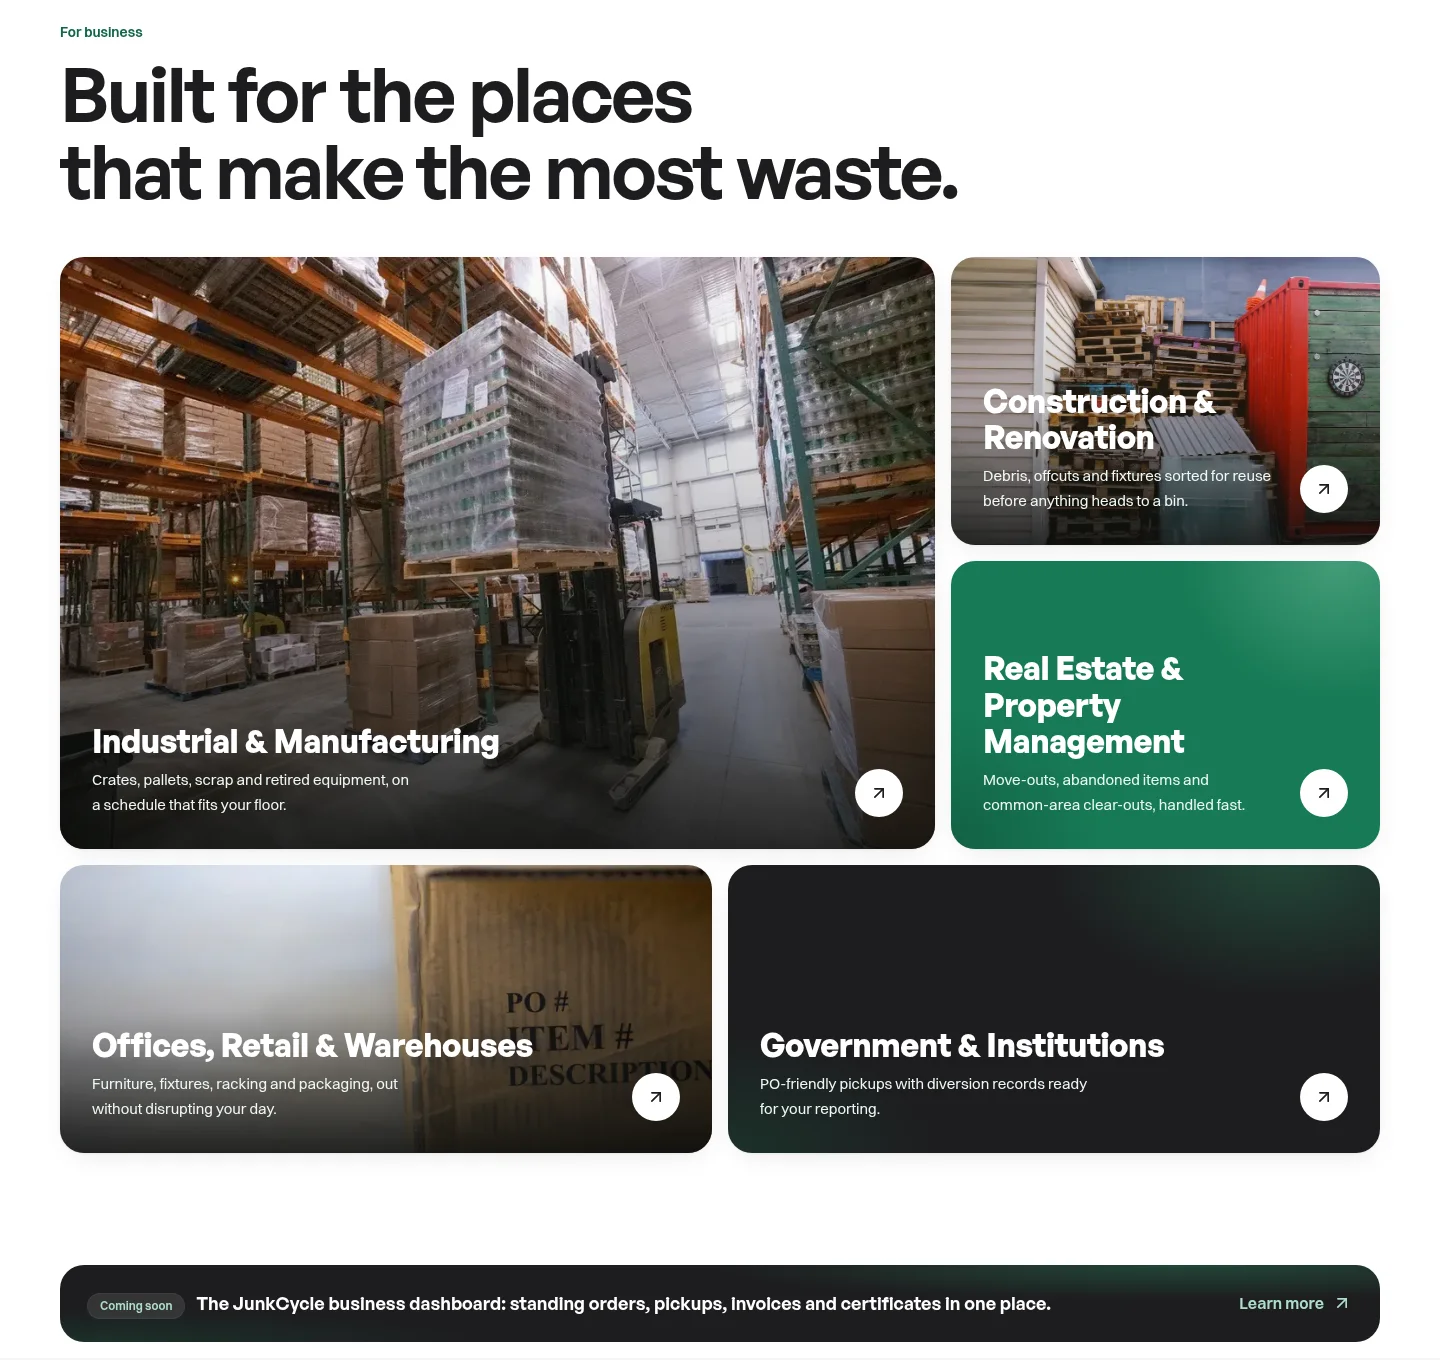
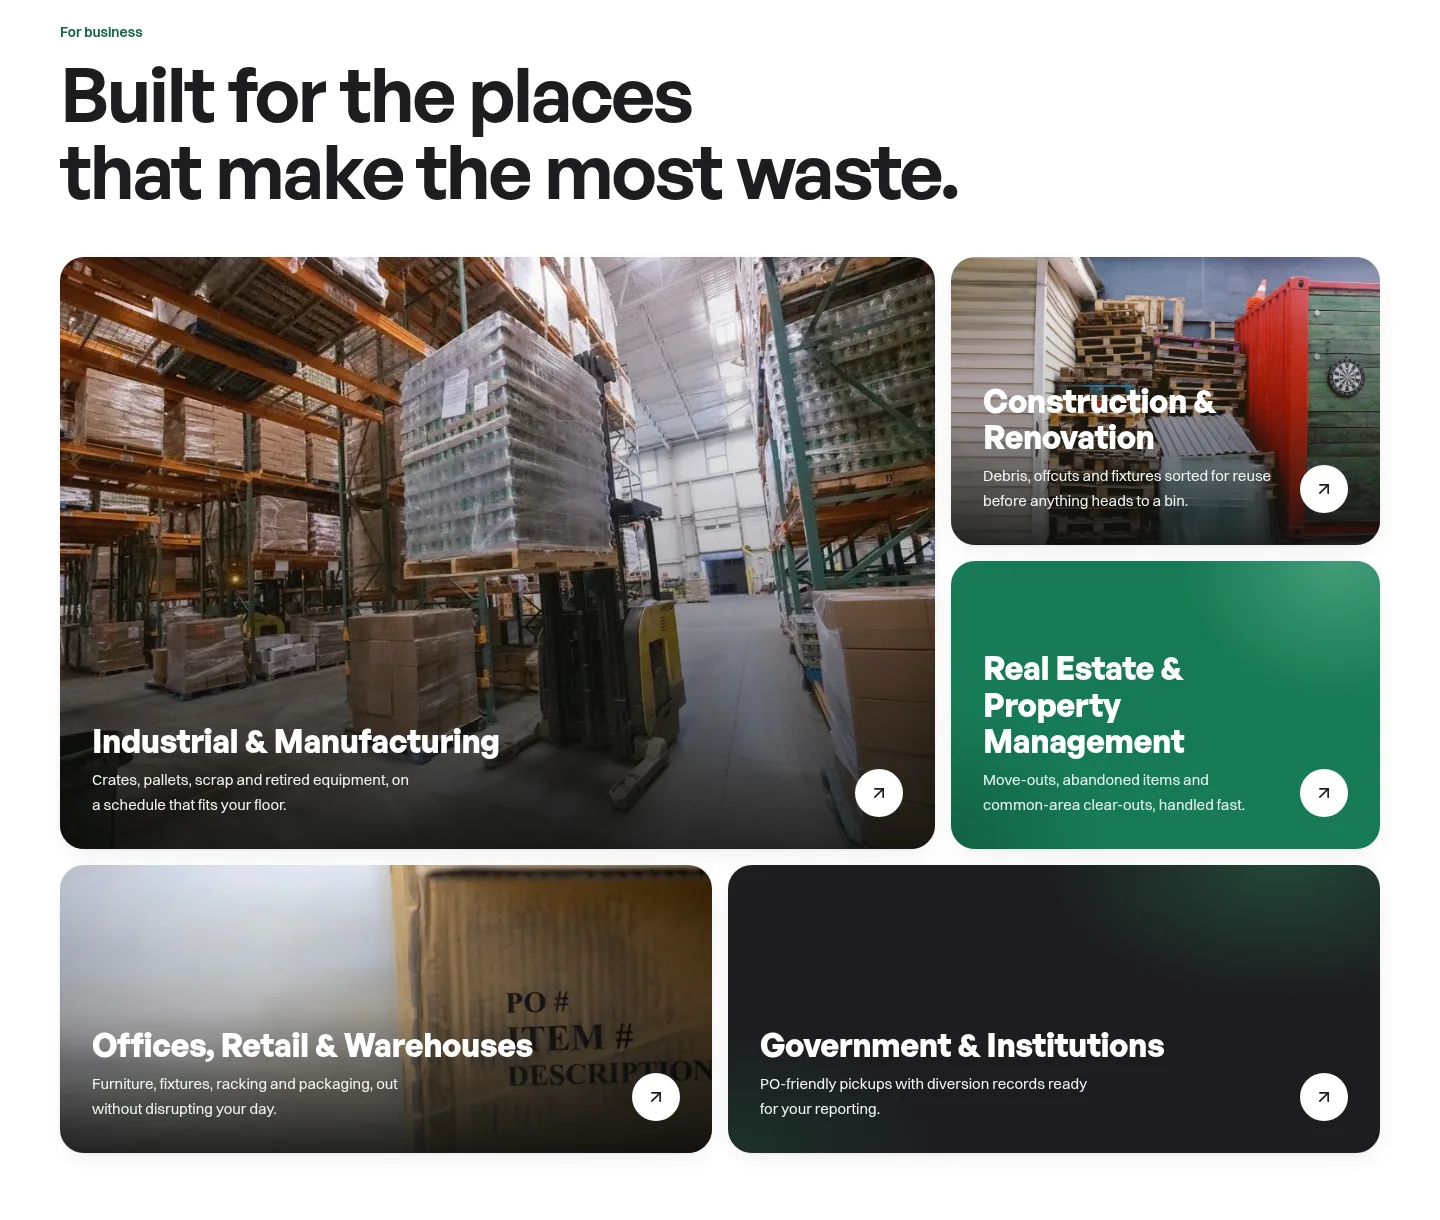
JunkCycle: crop the business dashboard 'coming soon' bar out of the screenshot
Claude-Session: https://claude.ai/code/session_01BLEVhYyhpnovzAgE1W9nVt

diff --git a/src/pages/work/JunkCycle.tsx b/src/pages/work/JunkCycle.tsx
@@ -116,7 +116,7 @@ function Work() {
 const sections = [
   { src: junkcycle.desktop.book, alt: 'Book in minutes: a numbered walkthrough of booking in the JunkCycle app', cap: 'Booking. Six numbered steps, from opening the app to earning Cycle Green Points.', h: 1380 },
   { src: junkcycle.desktop.smart, alt: 'Smart enough to know what’s what: the AI waste sorter, categories, sorting order and Cycle Green Points', cap: 'The smart part. The AI waste sorter, how items get sorted, and the points you earn for greener choices.', h: 1510 },
-  { src: junkcycle.desktop.places, alt: 'Built for the places that make the most waste: industry cards for businesses', cap: 'For business. One card for each industry, each leading to its own page.', h: 1360 },
+  { src: junkcycle.desktop.places, alt: 'Built for the places that make the most waste: industry cards for businesses', cap: 'For business. One card for each industry, each leading to its own page.', h: 1220 },
   { src: junkcycle.desktop.magellan, alt: 'Magellan Aerospace case study: 30.8 tonnes kept out of landfill', cap: 'A real case study. Big numbers and a client quote do the convincing.', h: 920 },
 ]
 const phones = [
